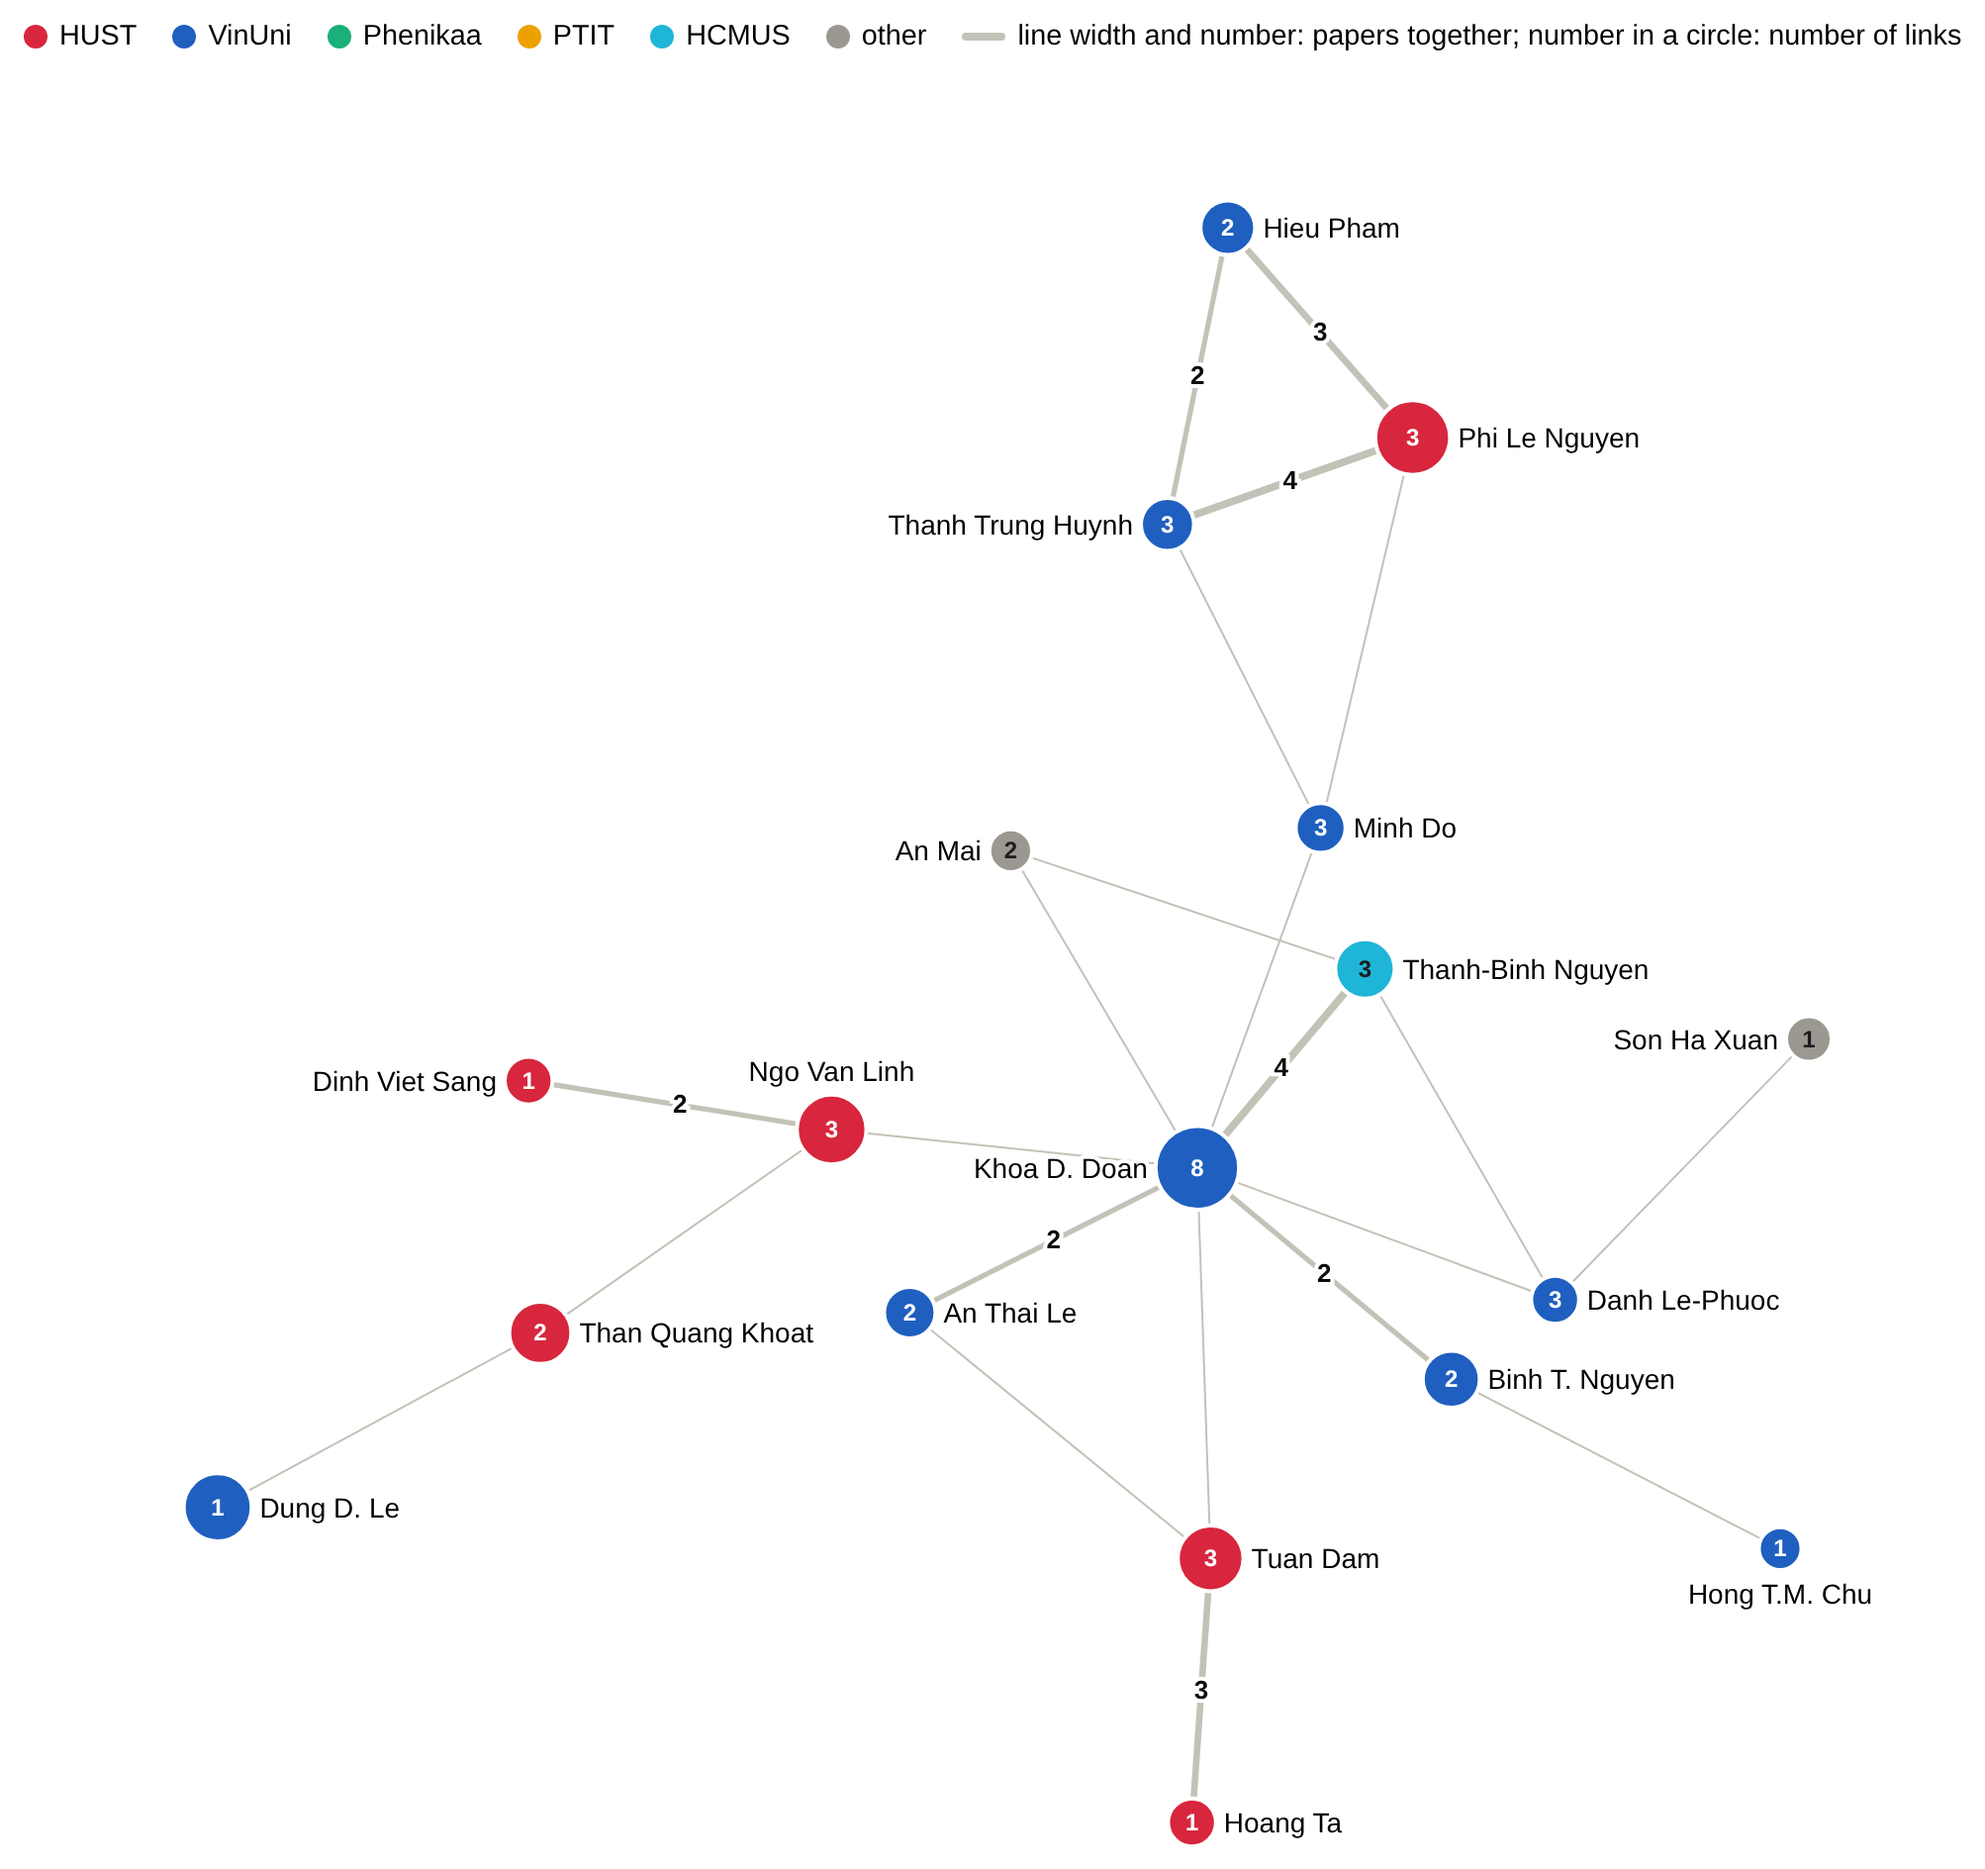
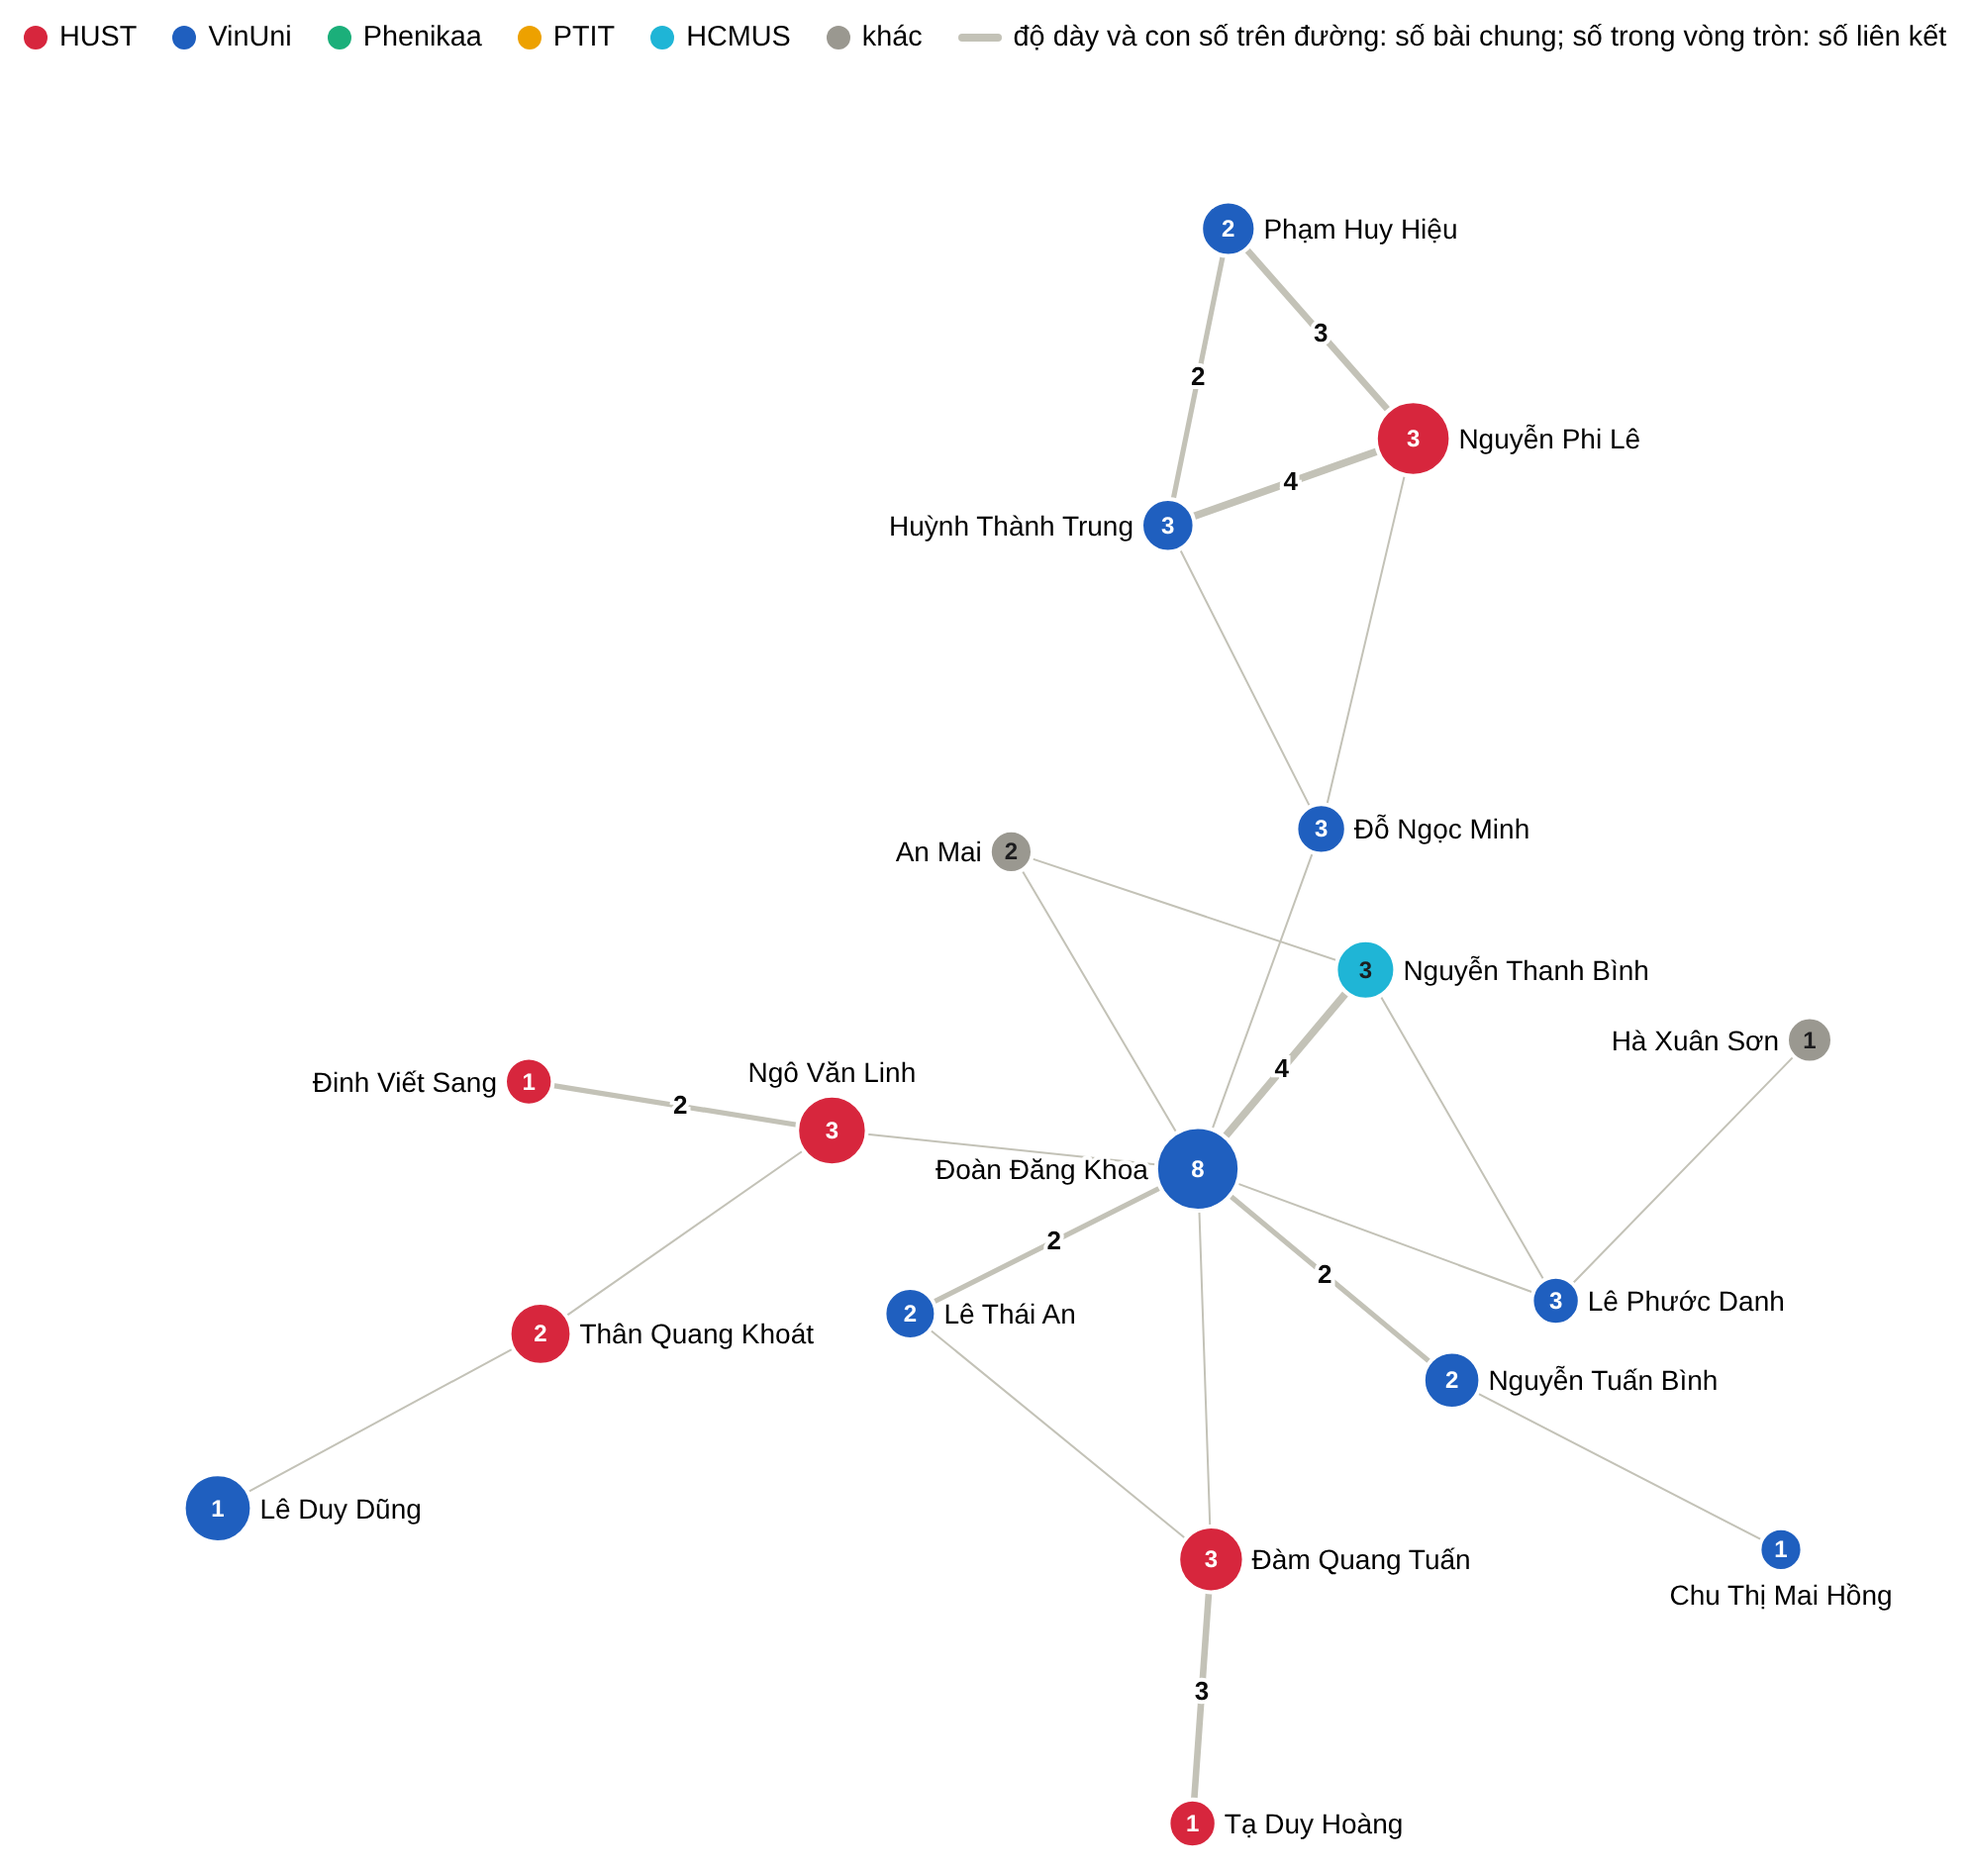
README: the per-year submissions chart, larger, and the collaboration graph with Vietnamese names

diff --git a/README.md b/README.md
@@ -6,15 +6,16 @@ EMNLP since 2020.
 
 **Website: <https://thanhlexyz.github.io/vn-at-top-ai-conference/>**
 
-![Accepted, recorded rejected and estimated rejected papers of all listed professors, over all years and per year](docs/submissions.png)
+![Accepted, recorded rejected and estimated rejected papers of all listed professors per year](docs/submissions.png)
 
-*Accepted papers against rejected ones, all listed professors: ICLR rejections are counted, the rest are estimated
-from each professor's own ICLR record.*
+*Submissions per year, all listed professors: accepted papers, rejections on record (every ICLR rejection, public
+NeurIPS rejections and Findings papers), and the rejections the other venues do not publish, estimated from each
+professor's own ICLR record.*
 
 ![Researcher collaboration graph: professors on the list joined by the papers they share](docs/researcher-graph.png)
 
-*Who works with whom: each circle is a professor on the list, coloured by institution; lines join people who share
-papers, shorter for more shared papers.*
+*Who works with whom: each circle is a professor on the list (Vietnamese names), coloured by institution; lines join
+people who share papers, shorter for more shared papers.*
 
 The figures are snapshots of the site; the live pages are updated with the data.
 
